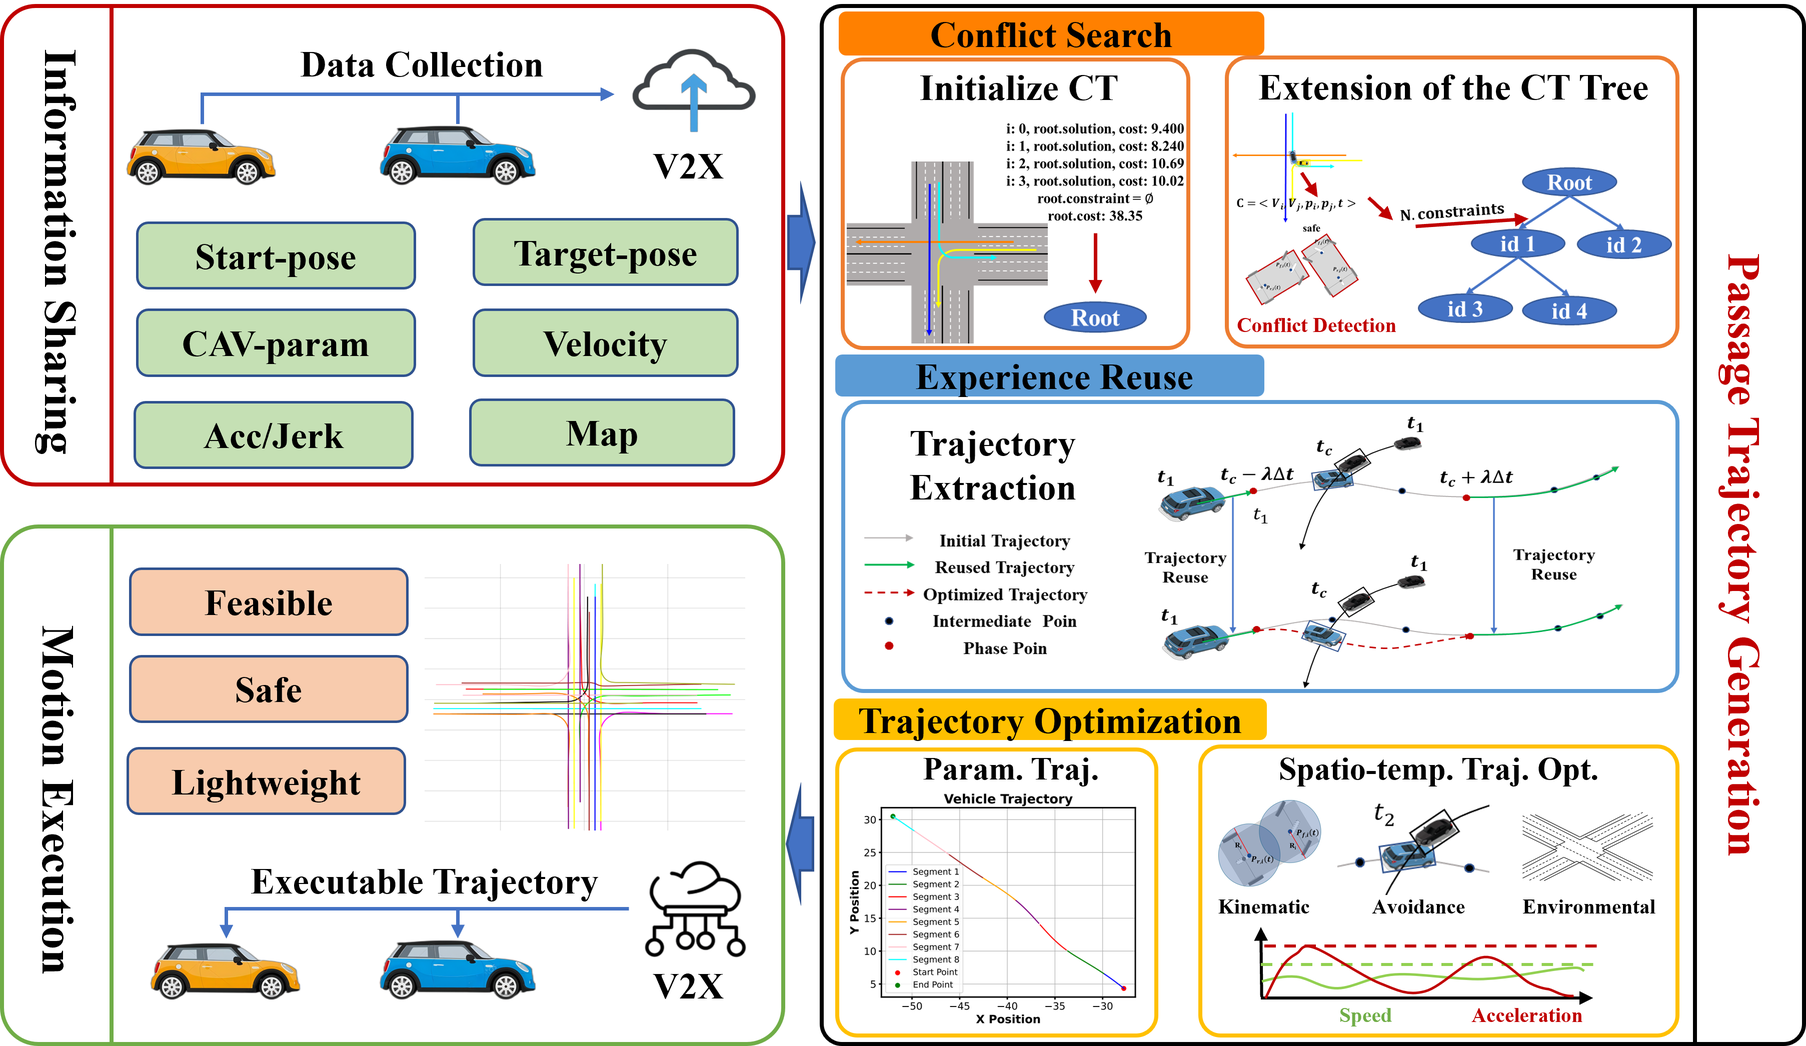
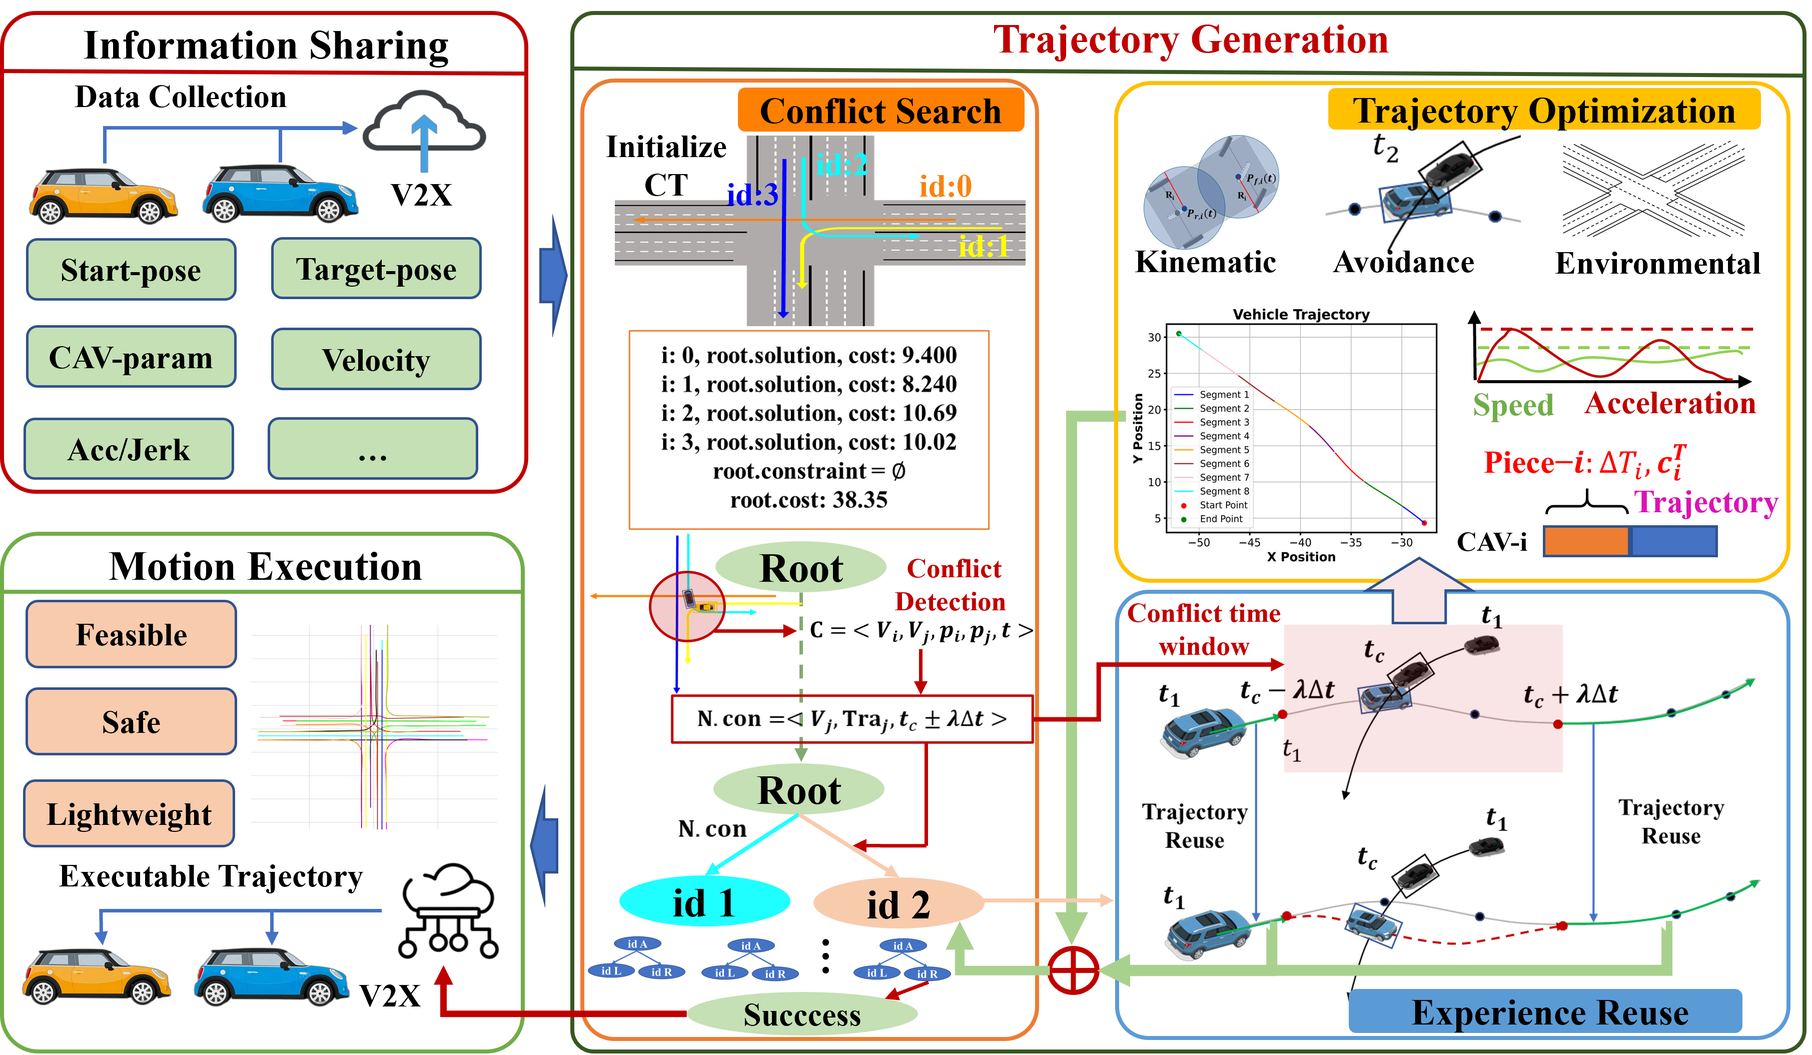
second banben 20251208

diff --git a/index.html b/index.html
@@ -90,24 +90,23 @@
                     <h2 class="title is-3">Abstract</h2>
                     <div class="content has-text-justified">
                         <p>
-                            V2X-based multi-vehicle cooperative motion planning enables intelligent connected vehicles
-                            within a region to achieve optimal passage, thereby improving traffic efficiency and safety
-                            at various complex urban intersections. To ensure reliable coordination, high-quality yet
-                            lightweight trajectory representation and efficient optimization are essential. This paper
-                            presents a lightweight and efficient cooperative planning framework for multi-vehicle
-                            systems at unsignalized intersections, jointly considering trajectory quality and traffic
-                            efficiency. To resolve spatiotemporal conflicts, we propose a conflict resolution strategy
-                            based on experience reuse, which accelerates resolution by reusing intermediate results and
-                            focusing on newly emerged conflicts. To address the reliance of high-quality trajectories on
-                            dense temporal discretization, we formulate a parameterized minimum-time joint optimization
-                            model that reduces the optimization dimensionality while ensuring minimum traversal time. We
-                            conduct simulation studies in a 200m × 200m six-lane bidirectional intersection. Compared to
-                            the most efficient baseline, the proposed method achieves a significant improvement in
-                            computational efficiency, with a speedup ranging from 60.04% to 91.37%, while
-                            simultaneously reducing the average communication data load by 94.76%. Finally, we validate
-                            the proposed method in a 7m × 4m indoor intersection experiment involving six vehicles. The
-                            results show that the framework performs well in allocating spatiotemporal resources and
-                            ensuring smooth multi-vehicle coordination.
+                            Multi-vehicle cooperative motion planning based on V2X communication can effectively improve the 
+                            traffic efficiency and safety of Connected and Automated Vehicles (CAVs) within a given region, 
+                            thereby enhancing the operational performance of complex urban intersections. To address the challenges 
+                            of high computational complexity and the difficulty in simultaneously guaranteeing real-time performance 
+                            and solution quality in multi-vehicle cooperative trajectory planning at urban unsignalized intersections, 
+                            this paper proposes a lightweight and efficient multi-vehicle cooperative trajectory planning method. 
+                            Within the Conflict-Based Search (CBS) framework, a time-window-based conflict resolution and experience 
+                            reuse mechanism is introduced to achieve near-linear growth of the conflict tree, thereby striking a balance 
+                            between real-time performance and scalability. Meanwhile, a parameterized trajectory representation based on 
+                            differential flatness is embedded into the CBS conflict resolution process, enabling efficient trajectory 
+                            refinement in continuous spatiotemporal domains while strictly satisfying lane constraints and dynamic feasibility, 
+                            and meanwhile reducing the system-level communication load. Simulation results in a bidirectional six-lane 
+                            intersection scenario within a 200m × 200m area demonstrate that the proposed method outperforms baseline 
+                            approaches in key metrics such as trajectory solving efficiency, system scalability, and communication overhead 
+                            under dense traffic conditions. Furthermore, a real-world UAV--UGV collaborative unsignalized intersection 
+                            experimental platform is established to validate the real-time performance, safety, and engineering feasibility 
+                            of the proposed system in physical environments.
                         </p>
                     </div>
                 </div>
@@ -115,33 +114,6 @@
         </div>
     </section>
     <!-- End paper abstract -->
-
-    <!-- <section class="section">
-        <div class="container">
-            <div class="box" style="text-align: left;">
-                <h2 class="title is-4">Abstract</h2>
-                <p>
-                    V2X-based multi-vehicle cooperative motion planning enables intelligent connected vehicles within a
-                    region to achieve optimal passage, thereby improving traffic efficiency and safety at various
-                    complex urban intersections. To ensure reliable coordination, high-quality yet lightweight
-                    trajectory representation and efficient optimization are essential. This paper presents a
-                    lightweight and efficient cooperative planning framework for multi-vehicle systems at unsignalized
-                    intersections, jointly considering trajectory quality and traffic efficiency. To resolve
-                    spatiotemporal conflicts, we propose a conflict resolution strategy based on experience reuse, which
-                    accelerates resolution by reusing intermediate results and focusing on newly emerged conflicts. To
-                    address the reliance of high-quality trajectories on dense temporal discretization, we formulate a
-                    parameterized minimum-time joint optimization model that reduces the optimization dimensionality
-                    while ensuring minimum traversal time. We conduct simulation studies in a 200m × 200m six-lane
-                    bidirectional intersection. Compared to the most efficient baseline, the proposed method achieves a
-                    significant improvement in computational efficiency, with a speedup ranging from 60.04% to 91.37%,
-                    while simultaneously reducing the average communication data load by 94.76%. Finally, we validate
-                    the proposed method in a 7m × 4m indoor intersection experiment involving six vehicles. The results
-                    show that the framework performs well in allocating spatiotemporal resources and ensuring smooth
-                    multi-vehicle coordination.
-                </p>
-            </div>
-        </div>
-    </section> -->
 
     <section class="section">
         <div class="container">
@@ -151,12 +123,18 @@
                     <img src="media\images\04.png" alt="Cooperative Motion Planning System Architecture">
                 </figure>
                 <p class="mt-3">
-                    <strong>Fig. 4:</strong> Overview of our complete intersection cooperative motion planning system,
-                    illustrating the proposed scheme for conflict detection and resolution. The right part of the figure
-                    shows the passage trajectory generation module, which integrates all the requirements discussed in
-                    Section Ⅲ. It demonstrates a three-stage process—conflict search,
-                    experience reuse, and trajectory optimization—to generate spatiotemporally optimal
-                    multi-objective trajectories for execution by CAVs.
+                    <strong>Fig. 4:</strong> Overview of the proposed cooperative motion planning framework for unsignalized 
+                    intersections. CAVs upload their states, targets, and constraints to the roadside infrastructure via V2X 
+                    communication for cooperative planning, and the optimized executable trajectories are transmitted back to 
+                    the vehicles for real-time motion execution. The core passage trajectory generation module consists of three 
+                    stages: conflict search, experience reuse, and trajectory optimization. First, CBS initializes and expands 
+                    the constraint tree to detect spatiotemporal conflicts; then, local trajectory optimization intervals are 
+                    extracted based on the conflict time window, and parameterized spatiotemporal trajectory optimization is 
+                    performed under unified kinematic and environmental constraints to generate dynamically feasible and 
+                    collision-free local cooperative trajectories. Meanwhile, the experience reuse module incorporates 
+                    historical feasible trajectories to accelerate the local replanning process. Finally, through the 
+                    continuous expansion and convergence of CBS nodes, a globally feasible multi-vehicle cooperative trajectory 
+                    solution is obtained.
                 </p>
             </div>
         </div>
@@ -164,13 +142,10 @@
 
 
 
-
-
-
     <section class="section">
         <div class="container">
             <div class="has-text-centered">
-                <h2 class="title is-3">Results</h2>
+                <h2 class="title is-3">Experimental results and analysis</h2>
                 <figure class="image" style="max-width: 80%; margin: 0 auto;">
                     <img src="media\images\biao.png" alt="Experimental Results Comparison">
                 </figure>
@@ -290,17 +265,17 @@
                 </p>
 
                 <p class="mt-3 has-text-justified" style="font-size: 1.3rem;">
-                    As shown in Fig. a, dense spatiotemporal conflicts occur among CAV-2,
+                    As shown in Fig.7a, dense spatiotemporal conflicts occur among CAV-2,
                     CAV-3, and CAV-4 within the unsignalized intersection area. Traditional approaches typically perform
                     global replanning over the entire trajectory to resolve such conflict-intensive regions, which
                     incurs high computational overhead and often disrupts the consistency of the original trajectory. In
                     contrast, the proposed method enables substantial trajectory inheritance for CAV-2, CAV-3, and CAV-4
                     before and after entering the intersection, with only localized trajectory reconstruction applied in
-                    the core conflict zone. As illustrated in Fig. b, CAV-2 and CAV-3 exploit the strong deformation
+                    the core conflict zone. As illustrated in Fig.7b, CAV-2 and CAV-3 exploit the strong deformation
                     capability of the differentially flat vehicle model to generate spatial trajectories in continuous
                     space. By temporarily utilizing the adjacent right lane, they execute high-speed evasive maneuvers
                     around CAV-0 and CAV-4, achieving passage speeds of 14.914 m/s and 14.149 m/s, respectively.
-                    Subsequently, both vehicles return to their designated task lanes, as depicted in Fig. c. This
+                    Subsequently, both vehicles return to their designated task lanes, as depicted in Fig.7c. This
                     strategy maintains trajectory structural stability and prevents the propagation of new conflicts
                     caused by large-scale trajectory modifications. By applying localized conflict segment replanning,
                     the method significantly reduces the solution space explored during CBS node expansion.
@@ -318,13 +293,143 @@
     <section class="section">
         <div class="container">
             <div class="has-text-centered">
-                <h2 class="title is-4">Architecture of the indoor UAV-UGV cooperative motion planning experimental
-                    system based on ROS</h2>
+                <h2 class="title is-3">Quantitative Analysis of Experimental Results</h2>
+                
+                <p class="mt-3 has-text-justified" style="font-size: 1.3rem;">
+                    For each vehicle scale, we randomly generate the initial position, velocity, acceleration, and target lane for 
+                    each vehicle within the parameter range specified in Table 2. To ensure fairness between different algorithms, 
+                    all methods are compared on the same set of randomized scenarios within the same scale. In order to reduce the 
+                    impact of randomness, 20 test cases are independently generated for each scale using the same random seed, and 
+                    the success rate and average computation time are recorded. The experiments are considered failed if no feasible 
+                    solution is found within 500s. 
+                </p>
+                
+                <figure class="image" style="max-width: 80%; margin: 0 auto;">
+                    <img src="media/images/t9.png" alt="Success Rate of Different Methods Across Scales">
+                </figure>
+                <p class="mt-3 has-text-justified" style="font-size: 1.3rem;">
+                    Figure <strong>9</strong> shows the success rate variation of the four methods across different scales, while 
+                    Figure <strong>10</strong> displays the trend of the average computation time as the number of vehicles increases.
+                </p>
+                
+                <figure class="image" style="max-width: 80%; margin: 0 auto;">
+                    <img src="media/images/t10.png" alt="Average Computation Time Across Scales">
+                </figure>
+                <p class="mt-3 has-text-justified" style="font-size: 1.3rem;">
+                    Based on the experimental results, the proposed LECTP method demonstrates a clear advantage in both success rate and 
+                    computation time. As the vehicle scale increases from 2 to 40, the success rate of LECTP remains consistently high. 
+                    It maintains a 100% success rate for up to 26 vehicles, and even in the most challenging scenario with 40 vehicles, 
+                    the success rate is still around 75%. This indicates that LECTP can stably coordinate large-scale vehicles through 
+                    intersections, significantly outperforming other comparison methods.
+                </p>
+
+                <p class="mt-3 has-text-justified" style="font-size: 1.3rem;">
+                    Regarding computation time, LECTP exhibits a smooth increase in average computation time as the number of vehicles grows, 
+                    while methods like PSB and OPC-CBS encounter significant time bottlenecks at larger scales, with solving times rapidly increasing. 
+                    Specifically, PSB reaches 36.73 seconds at around 10 vehicles, and for more than 18 vehicles, the computation time exceeds 100 seconds. 
+                    Coupled OCP also shows significant computational bottlenecks at relatively small scales. In contrast, LECTP maintains effective control 
+                    over computation time throughout the test range, demonstrating good scalability.
+                </p>
+
+                <p class="mt-3 has-text-justified" style="font-size: 1.3rem;">
+                    In summary, the LECTP method exhibits high success rates and low computation times in large-scale vehicle coordination planning, 
+                    particularly maintaining stable performance even as the number of vehicles increases. This makes LECTP significantly superior to 
+                    other comparison methods.
+                </p>
+            </div>
+        </div>
+    </section>
+
+    <section class="section">
+        <div class="container">
+            <div class="has-text-centered">
+                <h2 class="title is-3">Computation Time Analysis of LECTP Method</h2>
+                <figure class="image" style="max-width: 80%; margin: 0 auto;">
+                    <img src="media/images/t11.png" alt="Computation Time Growth with Vehicle Scale">
+                </figure>
+                <p class="mt-3 has-text-justified" style="font-size: 1.3rem;">
+                    Figure <strong>11</strong> shows the computation time statistics for the LECTP method as the vehicle scale increases by 2 vehicles at a time. The yellow values represent the median computation time. 
+                    For the 14-vehicle scale, the median computation time is only in the range of a few hundred milliseconds. The maximum computation time at 14 vehicles is 1.691 seconds, and the minimum computation time is 0.483 seconds. 
+                    In the 16–40 vehicle scenarios, the computation time increases linearly as the vehicle scale grows.
+                </p>
+            </div>
+        </div>
+    </section>
+
+    <section class="section">
+        <div class="container">
+            <div class="has-text-centered">
+                <h2 class="title is-3">Tree Depth and Node Count Analysis of LECTP Method</h2>
+                <figure class="image" style="max-width: 80%; margin: 0 auto;">
+                    <img src="media/images/t12.png" alt="Tree Depth and Node Count Growth with Vehicle Scale">
+                </figure>
+                <p class="mt-3 has-text-justified" style="font-size: 1.3rem;">
+                    Figure <strong>12</strong> illustrates how the tree depth (Depth) and node count (Node Count) of the LECTP algorithm change as the vehicle scale increases. 
+                    The figure shows that both tree depth and node count increase approximately linearly with the vehicle scale. This linear growth trend in tree depth and node count corresponds to the computation time growth trends observed in Figures <strong>10</strong> and <strong>11</strong>.
+                </p>
+            </div>
+        </div>
+    </section>
+
+    <section class="section">
+        <div class="container">
+            <div class="has-text-centered">
+                <h2 class="title is-3">Node-to-Depth Ratio (NDR) Analysis of LECTP Method</h2>
+                <figure class="image" style="max-width: 80%; margin: 0 auto;">
+                    <img src="media/images/t13.png" alt="NDR Curve of LECTP">
+                </figure>
+                <p class="mt-3 has-text-justified" style="font-size: 1.3rem;">
+                    To further explain the advantages of LECTP in computation time and conflict resolution from the perspective of constraint tree structure, 
+                    we introduce a new metric — Node-to-Depth Ratio (NDR). NDR is defined as the ratio of the total number of expanded constraint tree (CT) nodes 
+                    to the maximum depth of the tree, serving as a structural indicator to measure the expansion pattern of the constraint tree. 
+                    Figure <strong>13</strong> presents the NDR curve of LECTP. 
+                    In the range of 6–40 vehicles, the NDR remains around an average of 2.51. The figure shows that at the 40-vehicle scale, 
+                    the median depth of the tree is 124 layers, with 345 expanded nodes. Notably, the NDR does not exhibit exponential growth with increasing scale. 
+                    Compared to the node explosion in the traditional CBS framework, LECTP demonstrates stronger scalability and conflict localization ability at the structural level.
+                </p>
+            </div>
+        </div>
+    </section>
+
+
+
+
+
+
+    <section class="section">
+        <div class="container">
+            <div class="has-text-centered">
+                <h2 class="title is-3">Ablation Experiments</h2>
+                
+                <p class="mt-3 has-text-justified" style="font-size: 1.3rem;">
+                    To systematically evaluate the influence of key modules and parameter configurations in the proposed 
+                    LECTP method, we conduct two categories of ablation experiments: (1) sensitivity analysis of the window-time 
+                    scaling factor &lambda; and the safety margin &delta;; and (2) assessment of the performance impact when 
+                    enabling or disabling the experience-reuse mechanism. The experiments are performed under three representative 
+                    traffic densities (12, 24, and 36 vehicles) to ensure the robustness of the conclusions across different scales. 
+                    All scenarios are generated using the same randomized environment construction procedure as in the extended 
+                    experiments discussed previously.
+                </p>
+
+
+                <figure class="image" style="max-width: 80%; margin: 0 auto;">
+                    <img src="media/images/biao4_5.png" alt="Ablation Experiments">
+                </figure>
+            </div>
+        </div>
+    </section>
+
+
+
+    <section class="section">
+        <div class="container">
+            <div class="has-text-centered">
+                <h2 class="title is-3">Real-World Test</h2>
                 <figure class="image" style="max-width: 80%; margin: 0 auto;">
                     <img src="media\images\real-world.png" alt="Architecture">
                 </figure>
                 <p class="mt-3">
-                    <strong>Fig. 9:</strong> The setup mimics a bidirectional four-lane intersection with six AgileX
+                    <strong>Fig. 14:</strong> The setup mimics a bidirectional four-lane intersection with six AgileX
                     LIMO Pro robotic platforms representing intelligent connected vehicles. Among them, four vehicles
                     are assigned left-turn tasks and two are assigned straight-driving tasks. Each LIMO communicates in
                     real-time with a simulated roadside computation unit carried by a quadrotor UAV. The LIMO robots
@@ -346,7 +451,7 @@
                     <img src="media\images\shinei_6_car_jieguo_00.png" alt="Visualizations of Predicted Trajectories">
                 </figure>
                 <p class="mt-3">
-                    <strong>Fig. 10:</strong> (a) Snapshot of the entire experiment process.
+                    <strong>Fig. 15:</strong> (a) Snapshot of the entire experiment process.
                     (b) Historical trajectories and current vehicle states corresponding to (a).
                     (c) Speed-time curves of all vehicles.
                     (d) Temporal variation of the maximum and minimum inter-vehicle distances.
